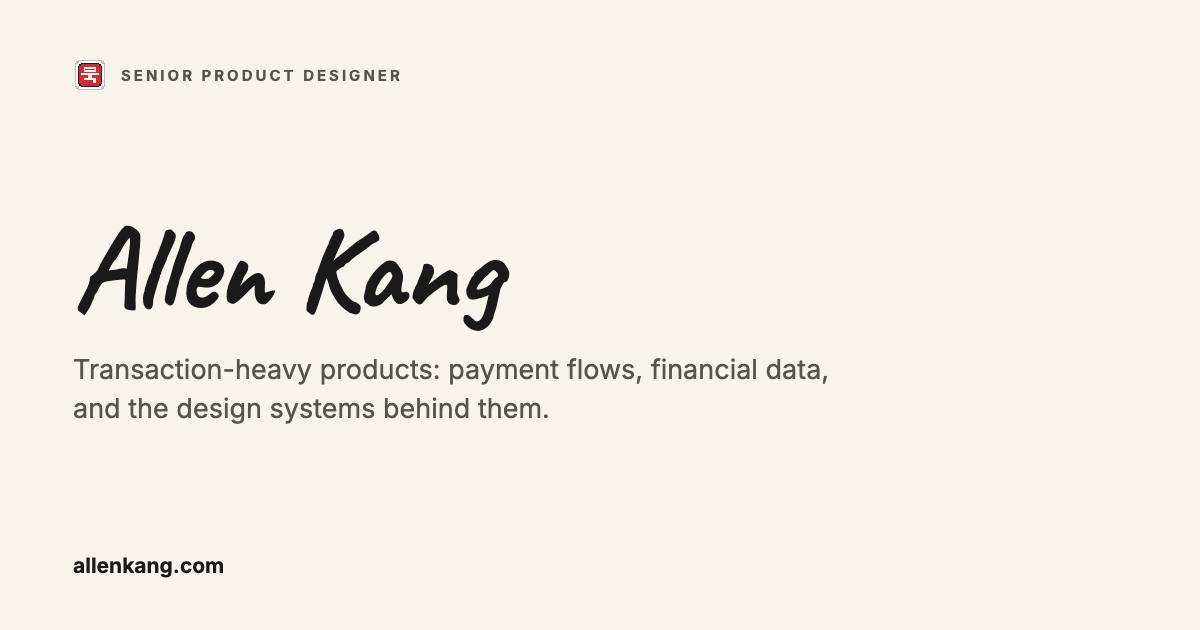
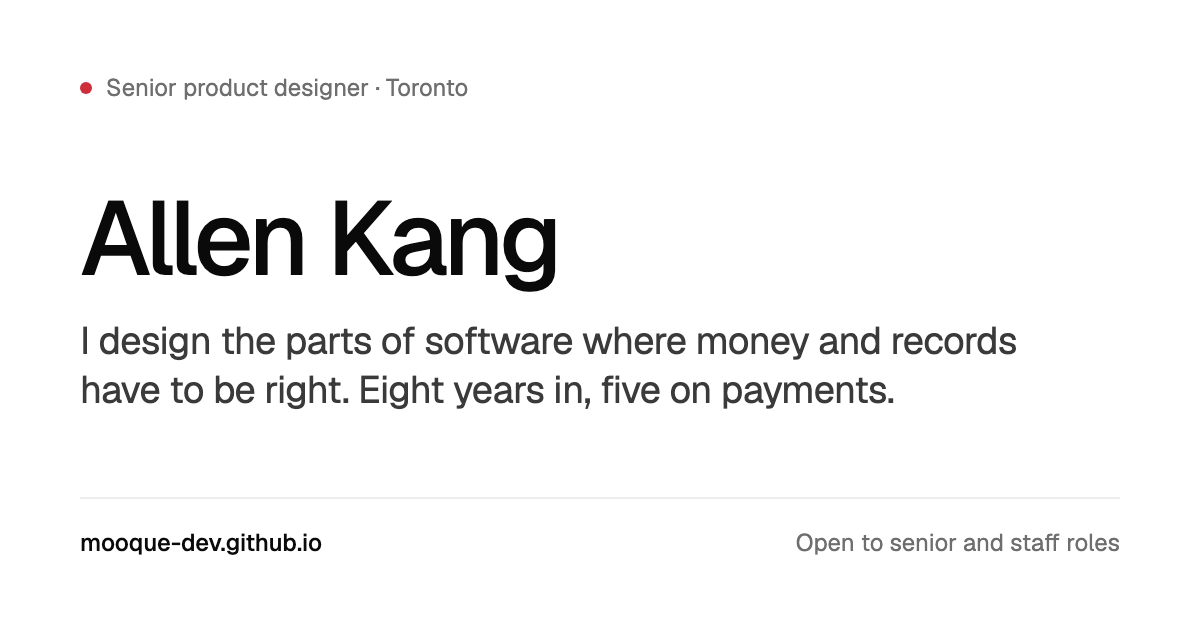
Redraw the link preview image in the current look, with the github.io address

diff --git a/lib/changelog.ts b/lib/changelog.ts
@@ -16,7 +16,7 @@ export const changelog: ChangelogEntry[] = [
     date: "2026-10-13",
     title: "Audit fixes: link previews, labels, loose ends",
     tags: ["design", "engineering"],
-    what: "Links shared from mooque-dev.github.io now preview as that page on that address, instead of every page claiming to be the allenkang.com home page. The last all-caps labels (About tabs, Playground filters, résumé headings, the phone menu) are in sentence case like the rest of the site. The Mastercard and Air Canada tabs no longer repeat my name. A dead link to ArtsGaze is now plain text, and three unused files are gone.",
+    what: "Links shared from mooque-dev.github.io now preview as that page on that address, instead of every page claiming to be the allenkang.com home page. The last all-caps labels (About tabs, Playground filters, résumé headings, the phone menu) are in sentence case like the rest of the site. The Mastercard and Air Canada tabs no longer repeat my name. The link preview image is redrawn in the current look, with the github.io address instead of allenkang.com. A dead link to ArtsGaze is now plain text, and three unused files are gone.",
     why: "A link pasted into LinkedIn should open the page it names, on a domain the reader's network allows.",
   },
   {
